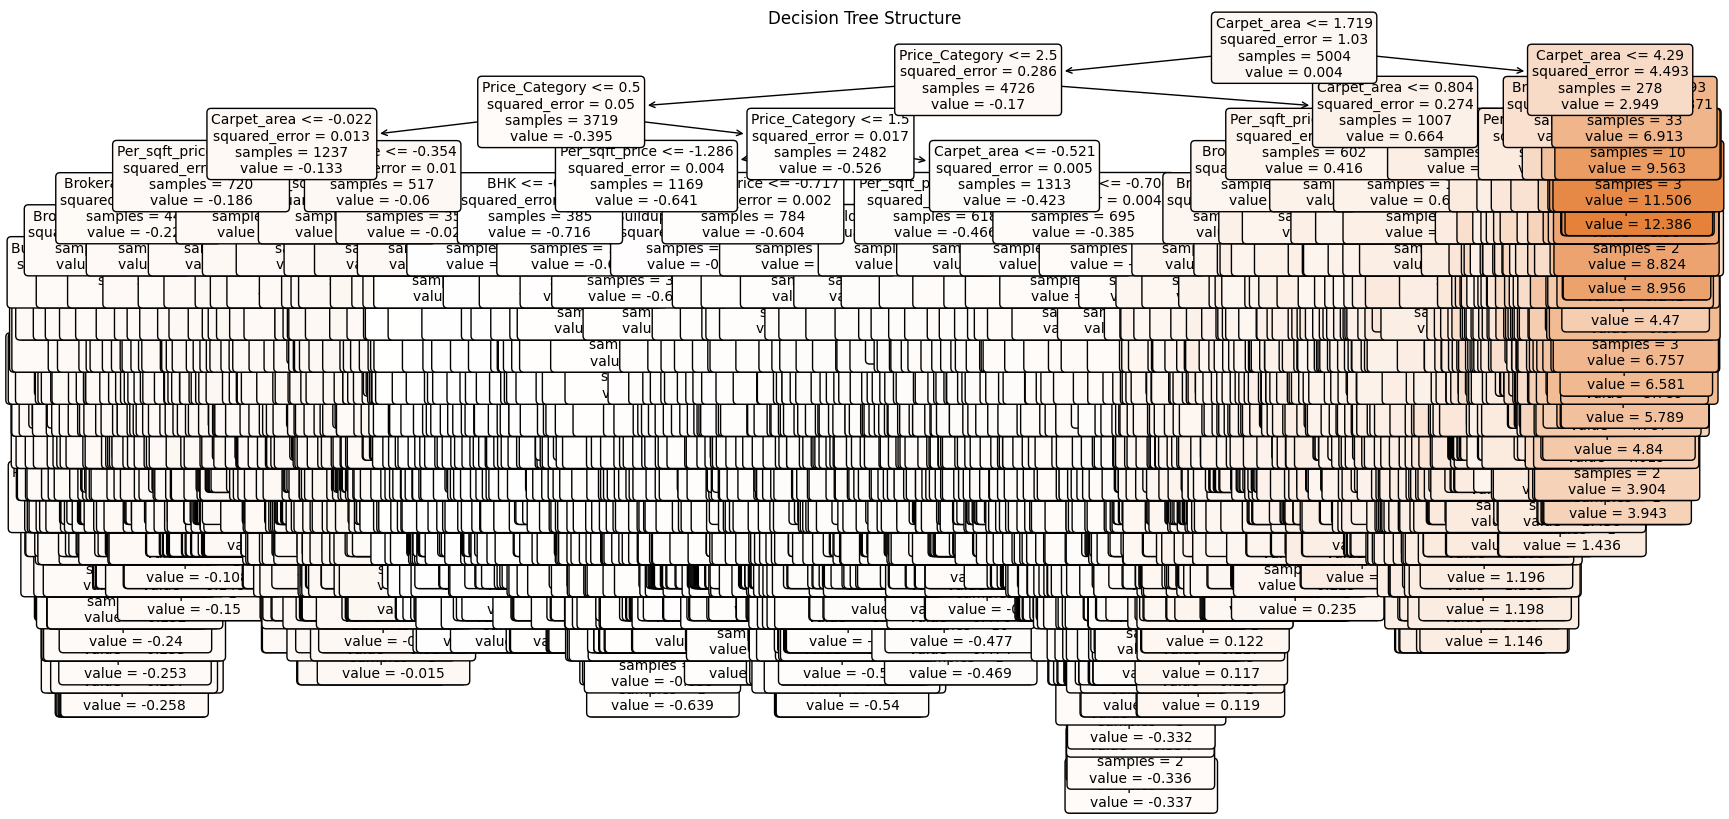
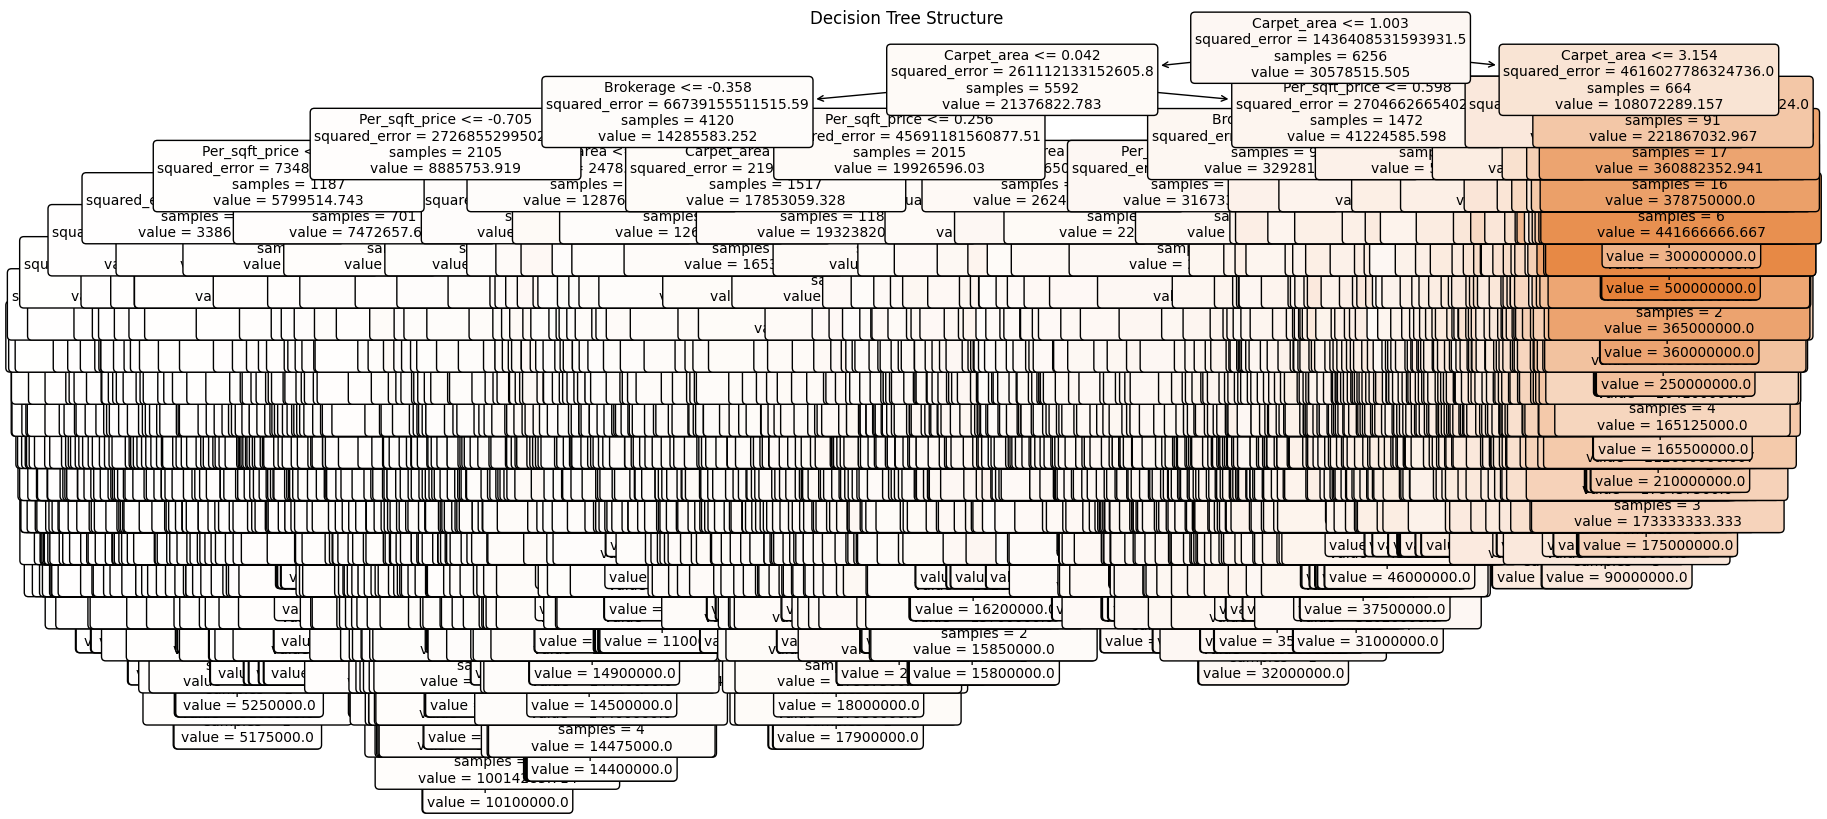
Q3/1 Done

diff --git a/A4/Q3/1.py b/A4/Q3/1.py
@@ -1,5 +1,4 @@
 import pandas as pd
-from sklearn.model_selection import train_test_split
 from sklearn.tree import DecisionTreeRegressor, plot_tree
 from sklearn.metrics import r2_score, mean_squared_error
 import matplotlib.pyplot as plt
@@ -7,12 +6,14 @@ import os
 
 os.makedirs("Plots", exist_ok=True)
 
-# train_data = pd.read_csv('../dataset/train.csv')
-train_data = pd.read_csv('../processed_train_data.csv')
+train_data = pd.read_csv('../Q2/X_train_final_with_categories.csv')
+test_data = pd.read_csv('../Q2/X_test_final_with_categories.csv')
 
-X = train_data.drop(columns=['Price'])
-y = train_data['Price']
-X_train, X_test, y_train, y_test = train_test_split(X, y, test_size=0.2, random_state=42)
+X_train = train_data.drop(columns=['Price', 'Price_Category'])
+y_train = train_data['Price']
+
+X_test = test_data.drop(columns=['Price', 'Price_Category'])
+y_test = test_data['Price']
 
 # Training Decision Tree on processed data
 model = DecisionTreeRegressor(random_state=42)
